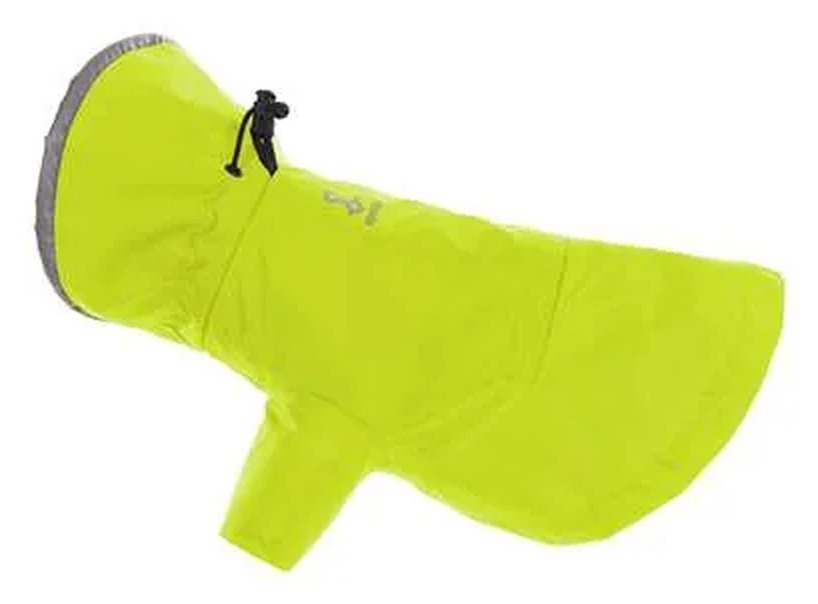
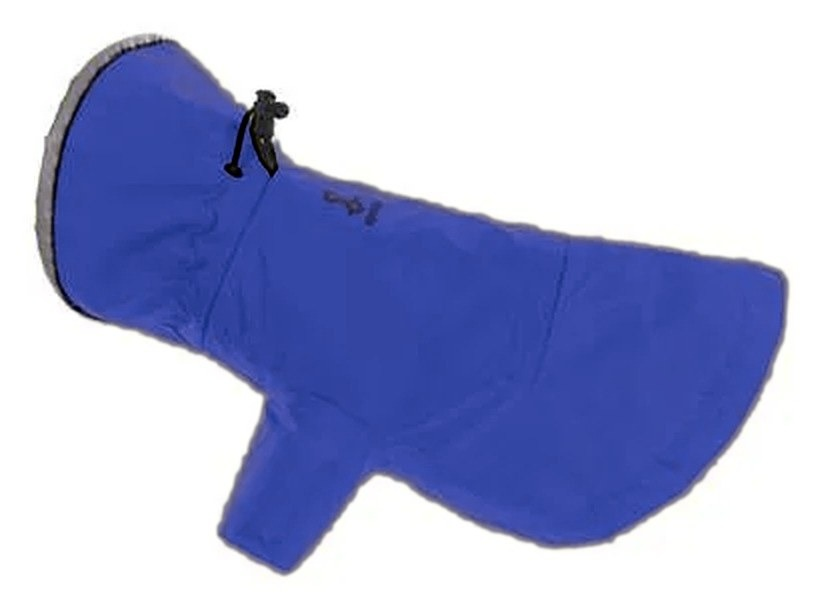
Fitting room: no 檸檬螢光黃 for the raincoats (skip_colors); 小汪防水斗篷 base is the hooded cape recoloured to 普魯士藍 (product 9)
Claude-Session: https://claude.ai/code/session_01Sh3EUZoEHbNickRAGPKE4x

diff --git a/_tools/fitstudio.py b/_tools/fitstudio.py
@@ -33,7 +33,7 @@ SHOW_NOTE = {"zh": True, "de": True, "en": True, "ja": True}
 DOGS = [("golden", "dog_golden.jpg", "黃金獵犬"), ("labrador", "dog_labrador.webp", "拉布拉多")]
 # key, prepared garment image (the colour Gemini draws), colour label, product id of that colour, size chart key in _data/image_text.json.
 # One entry per garment: 雨衣 / 保暖加毛 x 大狗 / 小狗. The other colours are the products sharing the garment's name; the laptop recolours them.
-COATS = [("rain_big", "rain_big.jpg", "普魯士藍", 8, "big_raincoat"), ("rain_small", "rain_small.jpg", "檸檬螢光黃", 16, "small_cape"),
+COATS = [("rain_big", "rain_big.jpg", "普魯士藍", 8, "big_raincoat"), ("rain_small", "rain_small.jpg", "普魯士藍", 9, "small_cape"),
          ("warm_big", "warm_big.jpg", "萊姆綠", 13, "big_jacket"), ("warm_small", "warm_small.jpg", "莓果桃", 15, "small_warm_cape")]
 # picture on a style card instead of the garment's reference picture (the owner's choice; Gemini still gets the reference)
 TYPE_PICTURE = {"rain": ASSET_DIR + "type_rain.jpg", "warm": ASSET_DIR + "type_warm.jpg"}
@@ -144,7 +144,9 @@ def coat_colors(coat, data, lang, table, link=None):
     if not p0:
         return []
     base = p0["name"].rpartition(" ")[0]
-    same = [p for p in data["products"] if p is not p0 and p.get("visible", True) and p["name"].rpartition(" ")[0] == base]
+    skip = set(coat.get("skip_colors") or [])   # colours the fitting room does not offer for this garment (the shop still sells them)
+    same = [p for p in data["products"] if p is not p0 and p.get("visible", True) and p["name"].rpartition(" ")[0] == base
+            and p["name"].rpartition(" ")[2] not in skip]
     out = []
     for p in [p0] + sorted(same, key=lambda x: x["id"]):
         zh = p["name"].rpartition(" ")[2]
